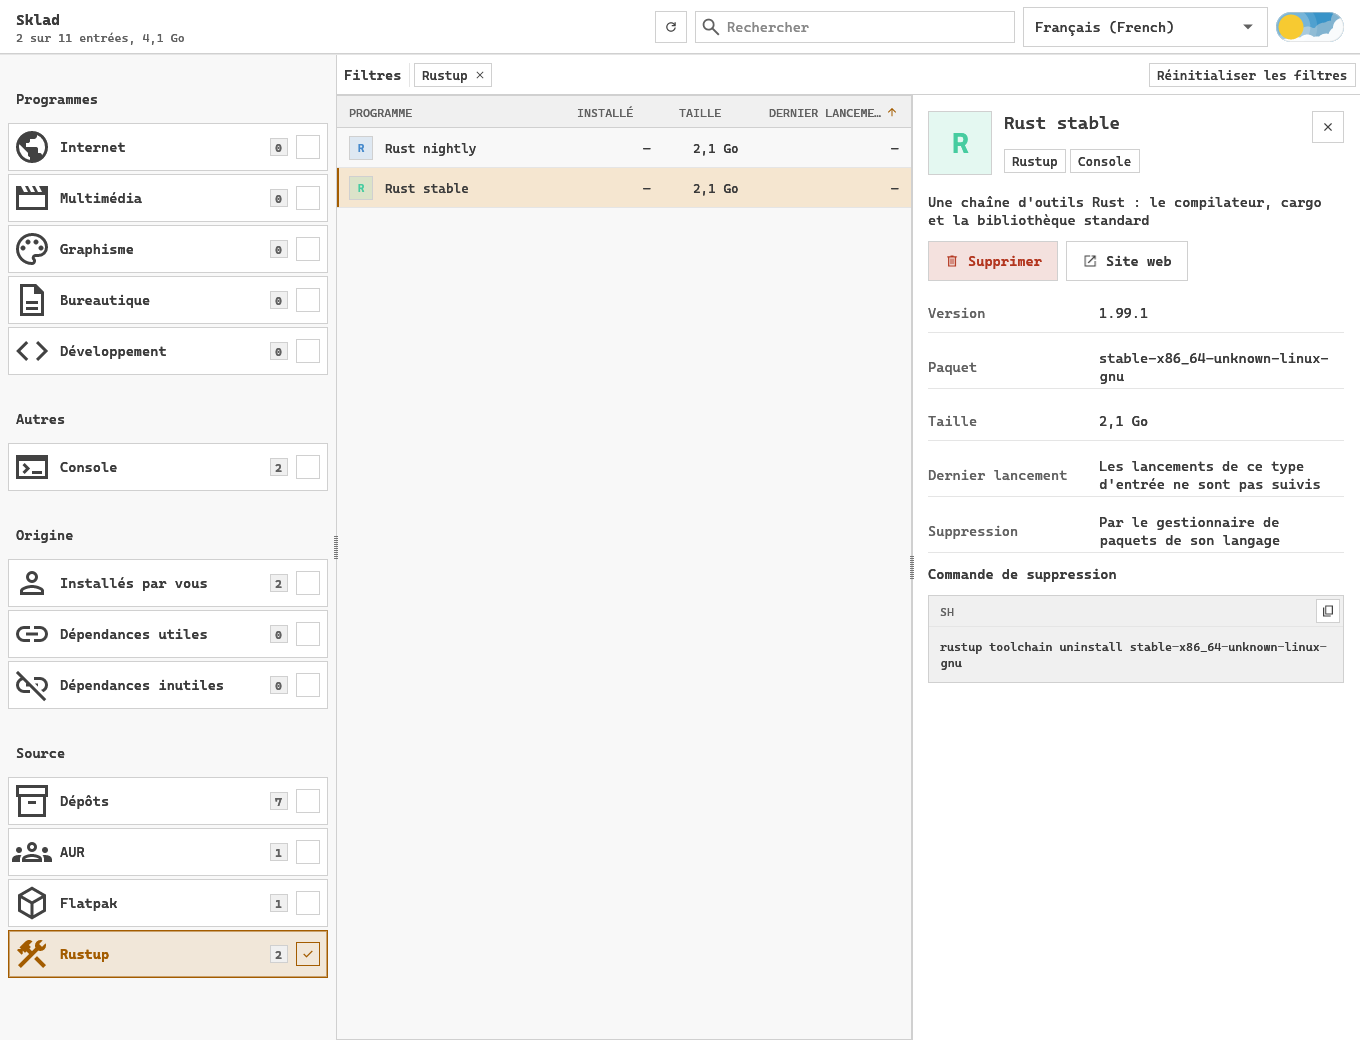
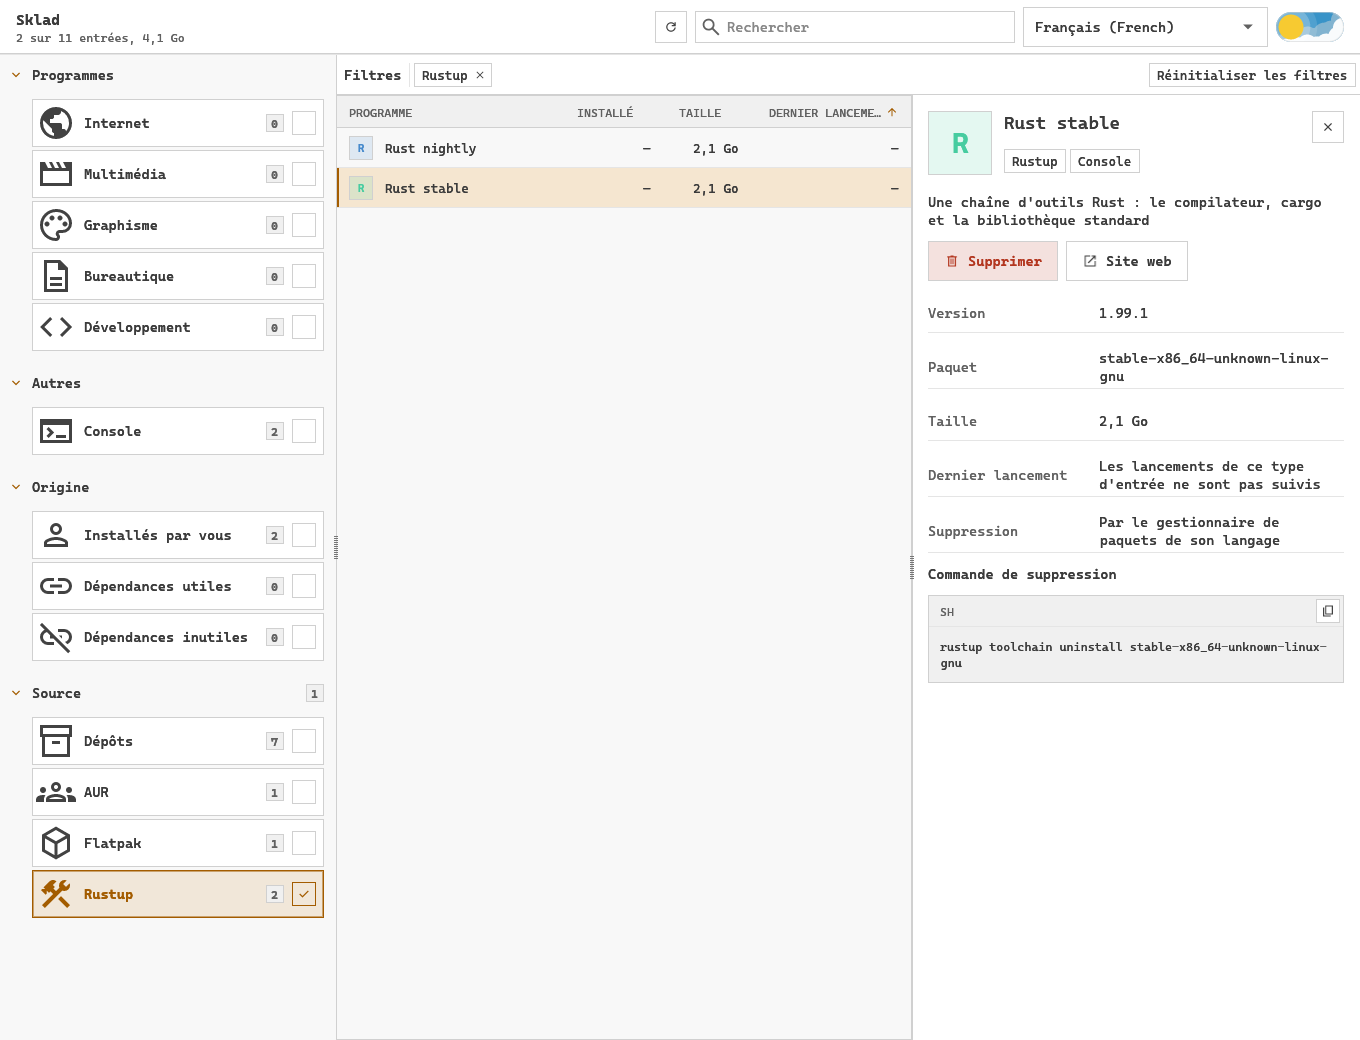
feat(ui): filter groups fold, with tighter spacing
Each group of the side bar is a Collapsible: a 10 DU header row with a chevron and a Counter of the filters of the group that are on, so a folded group still says it filters. The open content animates its height over expand. This replaces the section headings and their 6 DU gaps.

Changed region(s): [[0.0, 0.0615, 0.2471, 0.9538], [0.1853, 0.0923, 0.2471, 0.3385], [0.1853, 0.4, 0.2471, 0.4615]]

diff --git a/src/ui/operator/collapsible.rs b/src/ui/operator/collapsible.rs
@@ -1,0 +1,128 @@
+//! `Collapsible` (`docs/components/accordion.md`): a section with a header row that shows or
+//! hides its content.
+
+use std::f32::consts::FRAC_PI_2;
+
+use eframe::egui::{self, CursorIcon, Id, Rect, Sense, Ui, UiBuilder, WidgetInfo, pos2, vec2};
+use operator_ui_tokens::motion;
+
+use super::icon::{self, paint_icon_turned};
+use super::layout::{Tone, counter_size, paint_counter};
+use super::motion::standard;
+use super::state::{hover_amount, paint_focus_ring};
+use super::text::{paint_aligned, truncated};
+use super::tokens::{MEDIUM, Palette, Type, dim, du, mix, secs, tint, weighted};
+
+/// One section.
+pub struct Collapsible<'a> {
+    pub id: Id,
+    pub title: &'a str,
+    /// A `Counter` at the end of the header, hidden at zero.
+    pub count: usize,
+    /// The largest number the counter shows in full.
+    pub counter_max: usize,
+    pub initially_open: bool,
+}
+
+impl Collapsible<'_> {
+    fn open_key(&self) -> Id {
+        self.id.with("open")
+    }
+
+    /// Whether the section is open, as the person left it.
+    pub fn is_open(&self, ui: &Ui) -> bool {
+        ui.ctx()
+            .data(|data| data.get_temp(self.open_key()))
+            .unwrap_or(self.initially_open)
+    }
+
+    /// Draws the header and, while the section is open or closing, the content.
+    pub fn show(&self, ui: &mut Ui, palette: &Palette, content: impl FnOnce(&mut Ui)) {
+        let mut open = self.is_open(ui);
+        if self.header(ui, open, palette) {
+            open = !open;
+            ui.ctx().data_mut(|data| data.insert_temp(self.open_key(), open));
+        }
+        let openness = self.openness(ui, open);
+        if openness <= 0.0 {
+            return;
+        }
+
+        // The content is indented to the title: past the start padding, the chevron and the gap.
+        let indent = du(2.0 * dim::GUTTER + dim::ICON_SMALL);
+        let (top, bottom, end) = (du(dim::PAD_TIGHT), du(dim::PAD_CARD), du(dim::PAD_CARD));
+        let width = ui.available_width();
+        let origin = ui.cursor().min;
+        let height_key = self.id.with("height");
+        // The clip uses the height measured in the previous frame: the shapes are clipped as they
+        // are added, before this frame's height is known.
+        let known: Option<f32> = ui.ctx().data(|data| data.get_temp(height_key));
+        let clip_height = known.map_or(f32::INFINITY, |full| full * openness);
+        let clip = Rect::from_min_size(origin, vec2(width, clip_height)).intersect(ui.clip_rect());
+        let inner = Rect::from_min_size(
+            pos2(origin.x + indent, origin.y + top),
+            vec2((width - indent - end).max(0.0), f32::INFINITY),
+        );
+        let mut child = ui.new_child(UiBuilder::new().max_rect(inner));
+        child.set_clip_rect(clip);
+        if openness < 1.0 {
+            child.disable();
+        }
+        content(&mut child);
+        let full = top + child.min_rect().height() + bottom;
+        ui.ctx().data_mut(|data| data.insert_temp(height_key, full));
+        ui.allocate_exact_size(vec2(width, full * openness), Sense::hover());
+    }
+
+    /// The share of the content shown, `0` closed to `1` open, eased over `expand`.
+    fn openness(&self, ui: &Ui, open: bool) -> f32 {
+        ui.ctx().animate_bool_with_time_and_easing(
+            self.id.with("openness"),
+            open,
+            secs(motion::EXPAND_MS),
+            standard,
+        )
+    }
+
+    /// The header row. Returns whether it was clicked.
+    fn header(&self, ui: &mut Ui, open: bool, palette: &Palette) -> bool {
+        let size = vec2(ui.available_width(), du(dim::ROW_STANDARD));
+        let (rect, _) = ui.allocate_exact_size(size, Sense::hover());
+        let response = ui.interact(rect, self.id, Sense::click());
+        let title = self.title;
+        response.widget_info(|| WidgetInfo::selected(egui::Role::Button, true, open, title));
+        if ui.is_rect_visible(rect) {
+            let hover = hover_amount(ui, &response);
+            ui.painter().rect_filled(rect, 0.0, tint(palette.hover, hover));
+            let turn = self.openness(ui, open);
+            let chevron = du(dim::ICON_SMALL);
+            let start = rect.left() + du(dim::GUTTER);
+            let colour = mix(palette.text_secondary, palette.accent, turn);
+            let centre = pos2(start + chevron / 2.0, rect.center().y);
+            paint_icon_turned(ui, icon::CHEVRON_RIGHT, centre, chevron, colour, turn * FRAC_PI_2);
+
+            let left = start + chevron + du(dim::GUTTER);
+            let mut right = rect.right() - du(dim::PAD_CARD);
+            if self.count > 0 {
+                let badge = counter_size(ui, self.count, self.counter_max);
+                let at = pos2(right - badge.x, rect.center().y - badge.y / 2.0);
+                let badge_rect = Rect::from_min_size(at, badge);
+                paint_counter(
+                    ui,
+                    badge_rect,
+                    self.count,
+                    self.counter_max,
+                    Tone::Neutral,
+                    palette,
+                );
+                right = badge_rect.left() - du(dim::GUTTER);
+            }
+            let words = weighted(self.title, Type::Body, MEDIUM, palette.text_primary);
+            let words = truncated(ui, words, (right - left).max(0.0));
+            let text_rect = Rect::from_min_max(pos2(left, rect.top()), pos2(right, rect.bottom()));
+            paint_aligned(ui, text_rect, words, egui::Align::Min, palette.text_primary);
+            paint_focus_ring(ui, &response, rect, palette);
+        }
+        response.on_hover_cursor(CursorIcon::PointingHand).clicked()
+    }
+}

diff --git a/src/ui/mod.rs b/src/ui/mod.rs
@@ -23,6 +23,7 @@ use crate::scan::Catalog;
 use dialog::{Dialog, Exit};
 use operator::button::IconButton;
 use operator::checkbox_group::{CheckboxGroup, GroupItem, IconSize};
+use operator::collapsible::Collapsible;
 use operator::combobox::{self, Combobox};
 use operator::content::{ChipColor, Pane, SplitPane, chip, input_chip, theme_toggle};
 use operator::feedback::{Toasts, Tone};
@@ -376,22 +377,13 @@ impl App {
         }
     }
 
-    fn group(ui: &mut Ui, title: &str, palette: &Palette) {
-        ui.add_space(du(dim::SECTION_GAP));
-        ui.horizontal(|ui| {
-            ui.add_space(du(dim::GUTTER));
-            operator::layout::section_title(ui, title, palette);
-        });
-        ui.add_space(du(dim::PAD_TIGHT));
-    }
-
-    /// One group of filters as a `CheckboxGroup`, each tile with the number choosing it would
-    /// show.
-    fn facets(&mut self, ui: &mut Ui, title: &str, facets: &[Facet], palette: &Palette) {
+    /// One group of filters: a `Collapsible` holding a `CheckboxGroup`, each tile with the number
+    /// choosing it would show. The header counts the filters of the group that are on, so a
+    /// closed group still says it filters. `key` names the group whatever the language.
+    fn facets(&mut self, ui: &mut Ui, key: &str, title: &str, facets: &[Facet], palette: &Palette) {
         if facets.is_empty() {
             return;
         }
-        Self::group(ui, title, palette);
         let text = self.text();
         let items = self
             .catalog
@@ -409,13 +401,24 @@ impl App {
                 }
             })
             .collect();
-        let group = CheckboxGroup {
-            id: Id::unique(("facets", title)),
-            items: &tiles,
-            icon_size: IconSize::Large,
+        let section = Collapsible {
+            id: Id::unique(("filter group", key)),
+            title,
+            count: tiles.iter().filter(|tile| tile.selected).count(),
             counter_max: COUNT_MAX,
+            initially_open: true,
         };
-        if let Some(index) = group.show(ui, palette) {
+        let mut clicked = None;
+        section.show(ui, palette, |ui| {
+            let group = CheckboxGroup {
+                id: Id::unique(("facets", key)),
+                items: &tiles,
+                icon_size: IconSize::Large,
+                counter_max: COUNT_MAX,
+            };
+            clicked = group.show(ui, palette);
+        });
+        if let Some(index) = clicked {
             self.view.toggle(facets[index]);
             self.refilter();
         }
@@ -440,16 +443,11 @@ impl App {
             });
         let origins = Origin::ALL.map(Facet::Origin);
         ScrollArea::vertical().auto_shrink([false, false]).show(ui, |ui| {
-            Frame::new()
-                .inner_margin(egui::Margin::symmetric(du(dim::GUTTER) as i8, 0))
-                .show(ui, |ui| {
-                    ui.spacing_mut().item_spacing.y = 0.0;
-                    self.facets(ui, text.heading_programs, &programs, palette);
-                    self.facets(ui, text.other, &other, palette);
-                    self.facets(ui, text.heading_origin, &origins, palette);
-                    self.facets(ui, text.source_heading, &sources, palette);
-                    ui.add_space(du(dim::SECTION_GAP));
-                });
+            ui.spacing_mut().item_spacing.y = 0.0;
+            self.facets(ui, "programs", text.heading_programs, &programs, palette);
+            self.facets(ui, "other", text.other, &other, palette);
+            self.facets(ui, "origin", text.heading_origin, &origins, palette);
+            self.facets(ui, "source", text.source_heading, &sources, palette);
         });
     }
 

diff --git a/src/ui/operator/icon.rs b/src/ui/operator/icon.rs
@@ -26,6 +26,7 @@ pub const ARROW_DOWNWARD: Icon = Icon::System(&ds::ARROW_DOWNWARD);
 pub const ARROW_DROP_DOWN: Icon = Icon::System(&ds::ARROW_DROP_DOWN);
 pub const ARROW_UPWARD: Icon = Icon::System(&ds::ARROW_UPWARD);
 pub const CHECK: Icon = Icon::System(&ds::CHECK);
+pub const CHEVRON_RIGHT: Icon = Icon::System(&ds::CHEVRON_RIGHT);
 pub const CHECK_CIRCLE: Icon = Icon::System(&ds::CHECK_CIRCLE);
 pub const CLOSE: Icon = Icon::System(&ds::CLOSE);
 pub const CONTENT_COPY: Icon = Icon::System(&ds::CONTENT_COPY);
@@ -137,6 +138,18 @@ fn texture(ctx: &Context, icon: Icon, pixels: u32) -> Option<TextureHandle> {
     made
 }
 
+/// Paints `icon` turned clockwise by `angle` radians about its centre.
+pub fn paint_icon_turned(ui: &Ui, icon: Icon, centre: Pos2, size: f32, colour: Color32, angle: f32) {
+    let pixels = (size * ui.ctx().pixels_per_point()).round().max(1.0) as u32;
+    if let Some(texture) = texture(ui.ctx(), icon, pixels) {
+        let rect = Rect::from_center_size(centre, vec2(size, size));
+        eframe::egui::Image::from_texture(&texture)
+            .tint(colour)
+            .rotate(angle, vec2(0.5, 0.5))
+            .paint_at(ui, rect);
+    }
+}
+
 /// Paints `icon` centred on `centre`, `size` points on a side, in `colour`.
 pub fn paint_icon(ui: &Ui, icon: Icon, centre: Pos2, size: f32, colour: Color32) {
     let pixels = (size * ui.ctx().pixels_per_point()).round().max(1.0) as u32;
@@ -157,6 +170,7 @@ mod tests {
             ARROW_DOWNWARD,
             ARROW_UPWARD,
             CHECK,
+            CHEVRON_RIGHT,
             CHECK_CIRCLE,
             CLOSE,
             CONTENT_COPY,

diff --git a/tests/window.rs b/tests/window.rs
@@ -1271,3 +1271,26 @@ fn a_wider_side_bar_narrows_the_list_and_leaves_the_card_alone() {
     let narrower = harness.get_by_role_and_label(Role::Row, "Редактор").rect();
     assert!(narrower.width() < list.width(), "the list gives the width");
 }
+
+#[test]
+fn a_group_of_filters_folds_and_unfolds() {
+    let mut harness = window(FakeBackend::new(Outcome::Done));
+    settle(&mut harness);
+    let tile = By::new().role(Role::CheckBox).label("Мультимедіа");
+    assert!(harness.query(tile.clone()).is_some());
+    harness.get_by_role_and_label(Role::Button, "Програми").click();
+    settle(&mut harness);
+    shot(&mut harness, "32-folded");
+    assert!(
+        harness.query(tile.clone()).is_none(),
+        "a folded group hides its tiles"
+    );
+    assert!(
+        harness
+            .query(By::new().role(Role::CheckBox).label("Бібліотеки"))
+            .is_some()
+    );
+    harness.get_by_role_and_label(Role::Button, "Програми").click();
+    settle(&mut harness);
+    assert!(harness.query(tile).is_some());
+}

diff --git a/src/ui/operator/mod.rs b/src/ui/operator/mod.rs
@@ -7,6 +7,7 @@
 pub mod button;
 pub mod checkbox_group;
 pub mod code;
+pub mod collapsible;
 pub mod combobox;
 pub mod content;
 pub mod data_table;
